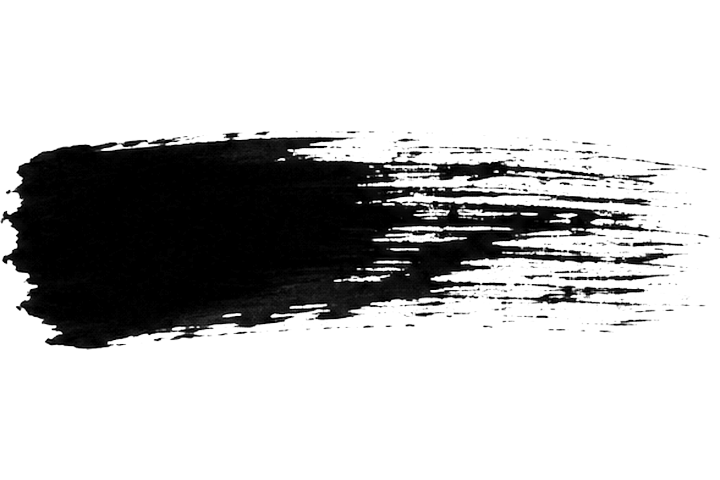
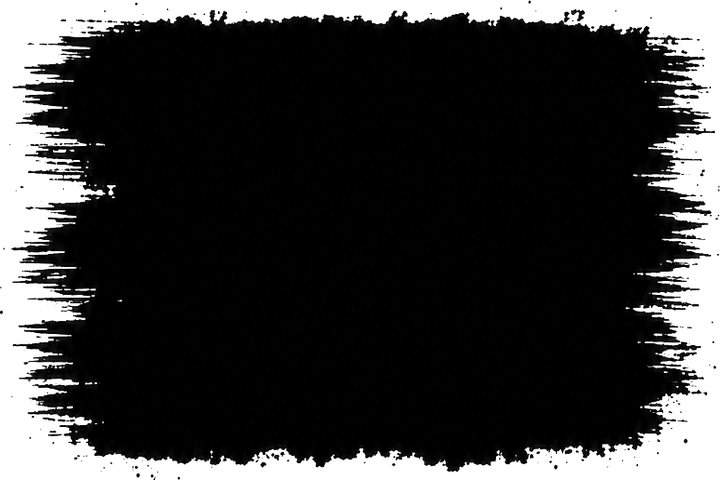
links: 対画の筆跡マスクを刷毛の面に(見える面積 24%/15% → 78%/82%。ユーザー指摘=動画が隠れる面積が広い)
gpt-image-2 で刷毛(hake)の墨の面2種(内側は塗り・四辺だけ乾いた掠れ)を描かせ、墨濃度→アルファ化して 3:2 の枠へ充填。

diff --git a/links.html b/links.html
@@ -600,8 +600,8 @@ body::after{content:"";position:fixed;inset:-40px;z-index:50;pointer-events:none
 .t-ja .dawn{background:var(--d0) url("assets/lk_ja_landscape.jpg?v=20260905c") no-repeat center bottom / cover;padding:64px 0 40px}
 .t-ja .dawn::before{background:linear-gradient(var(--d0),transparent)}
 .t-ja .pair::before{display:none}
-.t-ja .pair a:first-child{-webkit-mask:url("assets/lk_ja_stroke_h.png?v=20260905c") center / 100% 100% no-repeat;mask:url("assets/lk_ja_stroke_h.png?v=20260905c") center / 100% 100% no-repeat;border-radius:0;box-shadow:none}
-.t-ja .pair a:last-child{-webkit-mask:url("assets/lk_ja_stroke_d.png?v=20260905c") center / 100% 100% no-repeat;mask:url("assets/lk_ja_stroke_d.png?v=20260905c") center / 100% 100% no-repeat;border-radius:0;box-shadow:none}
+.t-ja .pair a:first-child{-webkit-mask:url("assets/lk_ja_stroke_h.png?v=20260906e") center / 100% 100% no-repeat;mask:url("assets/lk_ja_stroke_h.png?v=20260906e") center / 100% 100% no-repeat;border-radius:0;box-shadow:none}
+.t-ja .pair a:last-child{-webkit-mask:url("assets/lk_ja_stroke_d.png?v=20260906e") center / 100% 100% no-repeat;mask:url("assets/lk_ja_stroke_d.png?v=20260906e") center / 100% 100% no-repeat;border-radius:0;box-shadow:none}
 .t-ja .dawn .dawn-cap{background:rgba(243,239,230,.94);border:1px solid #B5B8AE;border-radius:4px;box-shadow:inset 0 1px 0 #fff;color:var(--ink);-webkit-backdrop-filter:none;backdrop-filter:none}
 .t-ja .dawn .dawn-cap .cap{color:var(--ink);font-family:"Yuji Syuku",serif;font-weight:400;font-size:22px;letter-spacing:.02em}
 .t-ja .dawn .pair-links,.t-ja .dawn .pair-links a,.t-ja .dawn .pair-links a + a{border-color:#D9D9D2}
